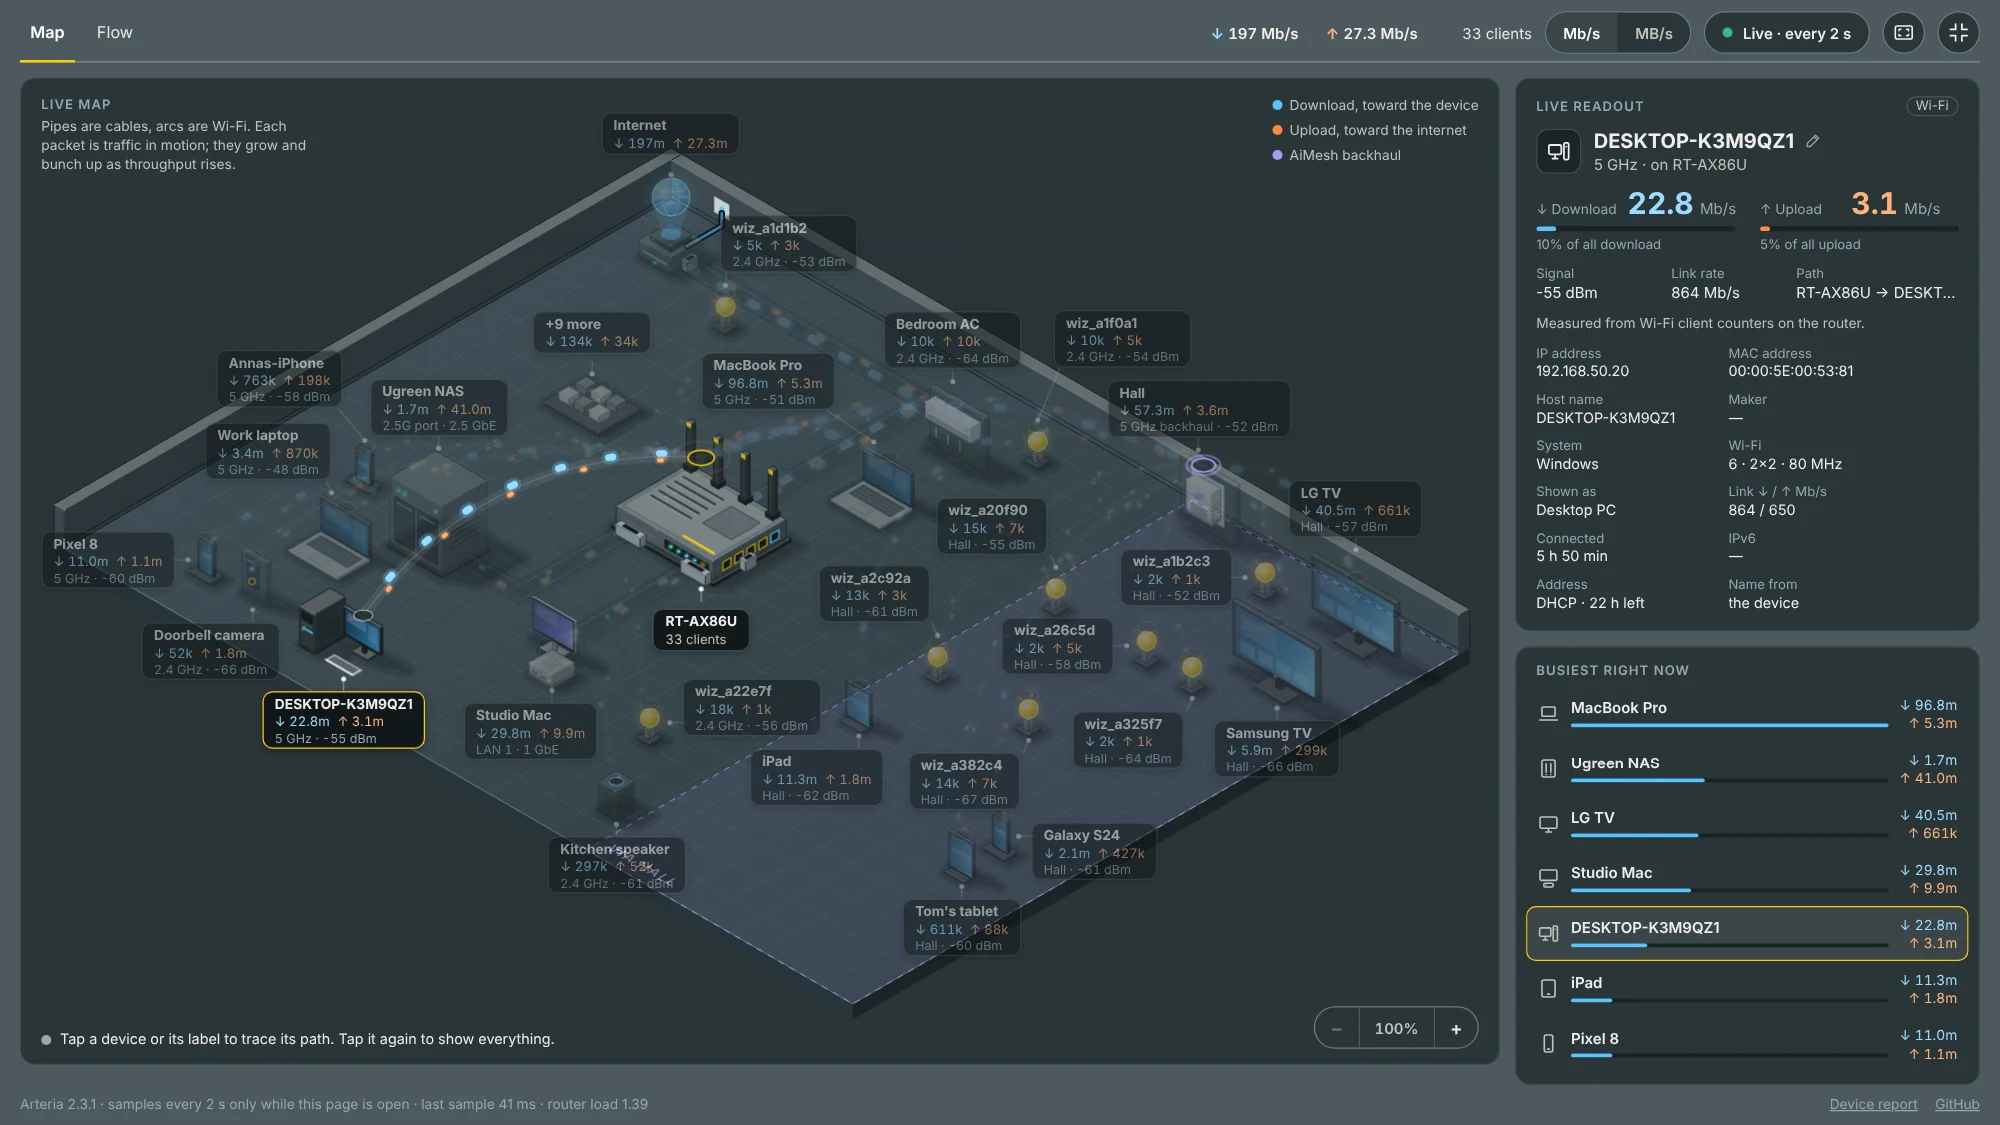
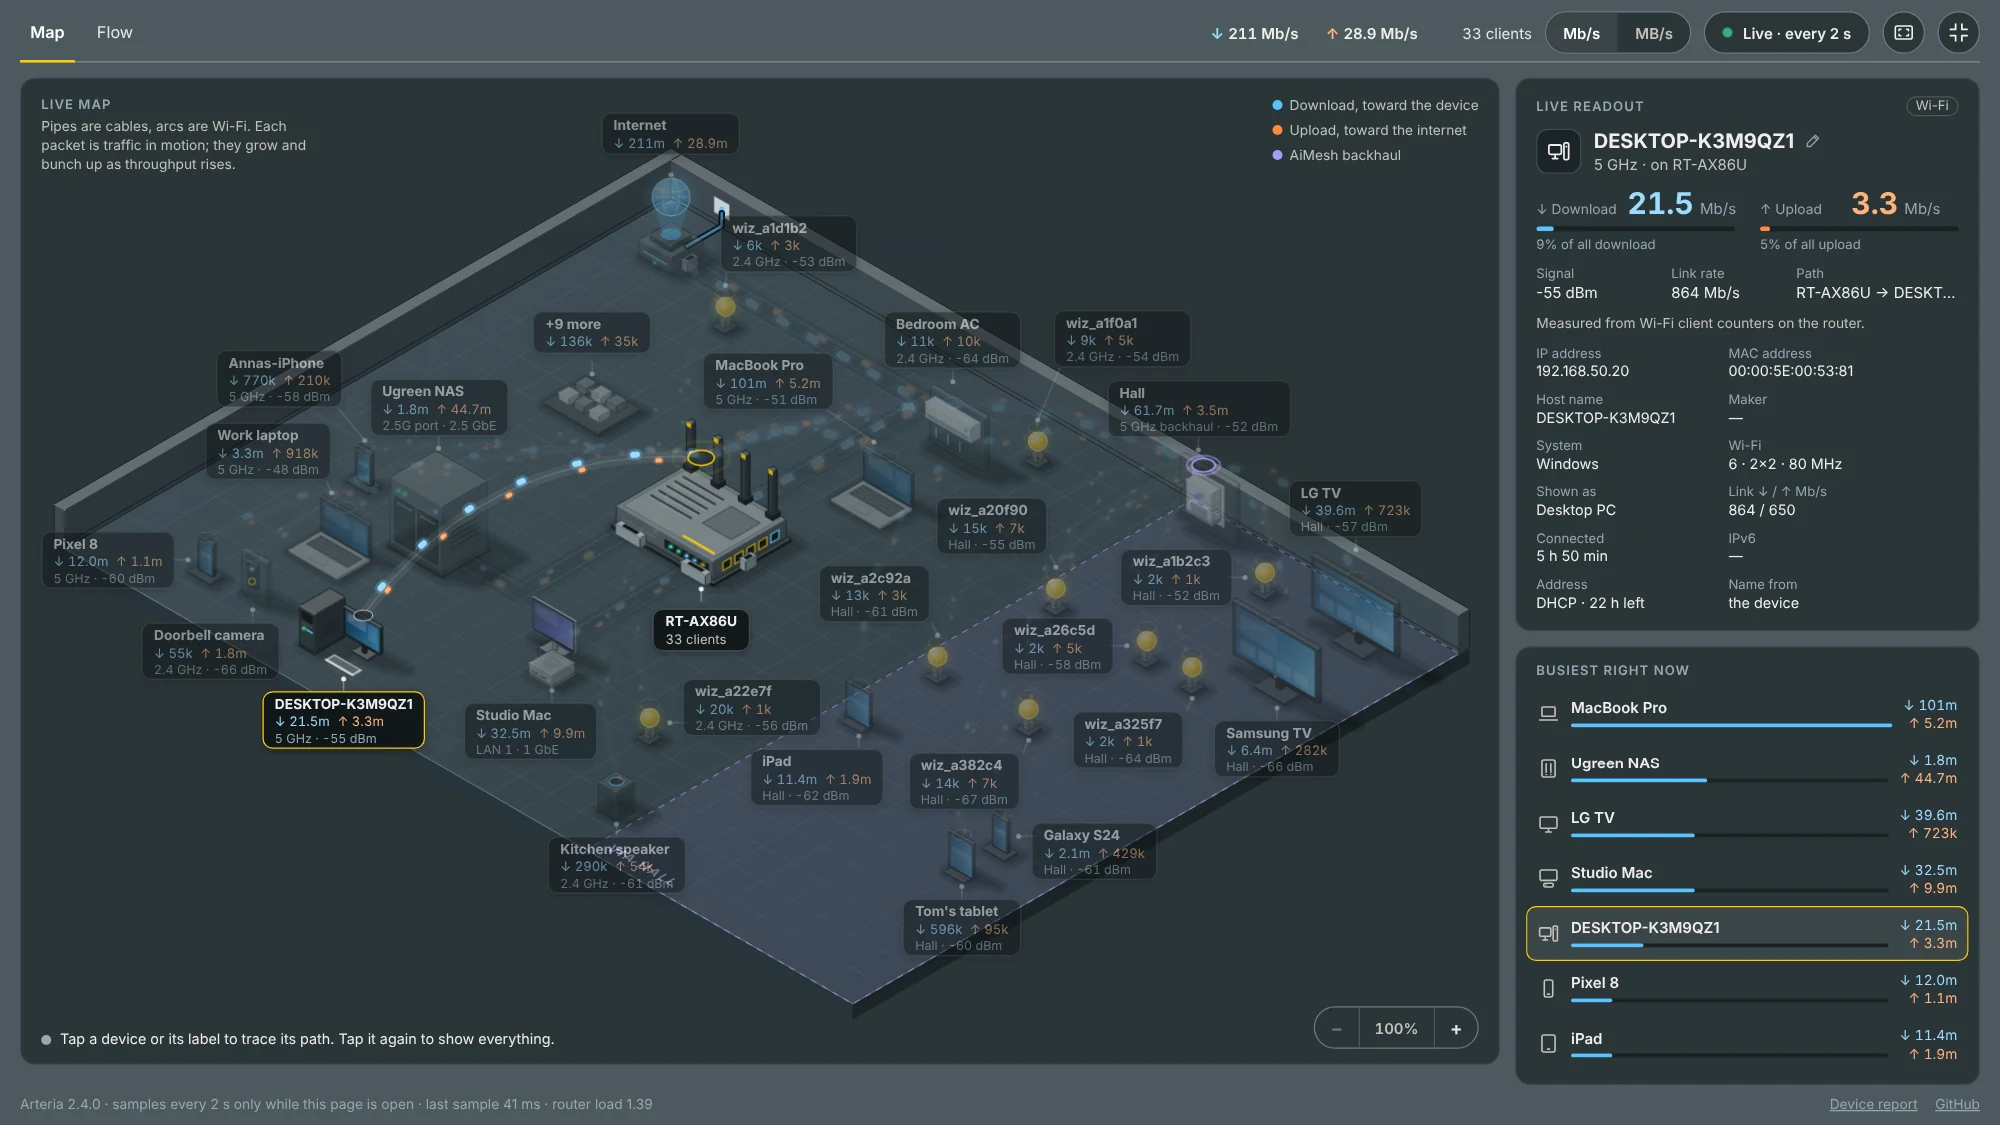
Release 2.4.0: the switch your nodes are on is drawn, chained switches named after all of them
- Version 2.4.0 in arteria.sh, the page and the bug report form.
- CHANGELOG: 2.4.0, with what the reviews found.
- README: AI reviewers checked each feature release (2.3.1, a fix
  release, wasn't reviewed).
- Docs: the README's pictures, its demo and the forum GIF redrawn (the
  page's footer says 2.4.0).

Claude-Session: https://claude.ai/code/session_01VjX2uxd3MpU6CZq6psEPw5

diff --git a/CHANGELOG.md b/CHANGELOG.md
@@ -2,6 +2,18 @@
 
 What changed in each release of Arteria. The release workflow copies a version's section into its GitHub release notes, so write for people running the addon.
 
+## 2.4.0
+
+The switch your AiMesh nodes are on now shows on the map, and switches chained on one port are named after all of them. Thanks to jksmurf and scootertramp in the SNBForums thread for the reports and screenshots.
+
+- **The switch your nodes are on is drawn.** Nodes behind an unmanaged switch on one router port each had a cable of their own from the router, with no switch in sight: an unmanaged switch has no address, so it can't be named. Arteria now knows it's there from what is on the port, and draws it beside the router, with the nodes' cables leaving from it. Its cable from the router carries the whole port's traffic, and tapping a node traces it through the switch.
+  - It's drawn only where it's sure to be there: two or more things on the port (nodes, or a node and other devices), every node on it read over SSH (its key set up), and none wired behind another. A node wired behind another looks the same from the router, and only the node in front can say so. Otherwise the map is as before. Once drawn, it stays while a node is briefly busy or not answering.
+  - It costs no device its place on the map: Arteria lays the map out with the switch and without it, and keeps it only when every device that stands without it stands with it too. It never stands on a node's drawing or behind the router. A crowded page view may therefore show it only in the expanded view.
+- **Switches chained on one port are named after all of them.** Two managed switches chained on one port, each named with "switch", showed as *Switch on 10G port*: the router learns them both on that port, so which one is plugged into it can't be told. The port's switch is now named after them (*teg-switch01 + tpe-switch02*), and both stay in its list with their details. With three or more: the first two, then a count.
+- **Labels keep a little more clear of node cables.** In rare layouts a node's cable ran just under the router's label.
+
+As with the earlier feature releases, separate AI reviewers checked this one for security problems and bugs before it went out, and what they found was fixed: the switch's drawing could stand on a node's, the map was laid out too often on a busy network, and a node's brief state changes made the switch come and go.
+
 ## 2.3.1
 
 The router no longer logs you out while Arteria's page is open, and a switch is no longer named after a TV tuner behind it. Thanks to Slapdaddy in the SNBForums thread for the report, and to Squall Leonhart, who suggested the first for WiFi Insight.

diff --git a/README.md b/README.md
@@ -7,7 +7,7 @@ It only works while you're looking: sampling starts when you open its page and s
 <p align="center"><img src="docs/demo.webp" width="728" alt="Arteria demo: packets flow across an isometric map of the internet, the router, an AiMesh node and their devices. The cursor traces a TV behind the node and opens its details, renames the work laptop to Study iMac (the map then draws an iMac), switches to the Flow view and between Mb/s and MB/s, then opens the expanded view, zooms in on the node with a pinch, drags the map and zooms back out."><br><sub>Made-up sample data. Recorded with <code>.github/demo-gif.py</code>.</sub></p>
 
 > [!WARNING]
-> **Use it at your own risk.** Arteria was generated by Claude Opus 5.5, Anthropic's AI, with design help from Claude Fable 5.2. I'm a Java developer, not a router firmware or shell scripting specialist: I described what I wanted and tested it on my own router. It runs as root. AI reviewers checked it for security before each release and what they found was fixed, but no human security expert has reviewed it yet. It's provided as is, without warranty ([MIT licence](LICENSE)). Read [What it changes on your router](#what-it-changes-on-your-router) before installing.
+> **Use it at your own risk.** Arteria was generated by Claude Opus 5.5, Anthropic's AI, with design help from Claude Fable 5.2. I'm a Java developer, not a router firmware or shell scripting specialist: I described what I wanted and tested it on my own router. It runs as root. AI reviewers checked it for security before each feature release and what they found was fixed, but no human security expert has reviewed it yet. It's provided as is, without warranty ([MIT licence](LICENSE)). Read [What it changes on your router](#what-it-changes-on-your-router) before installing.
 
 ## What you get
 
